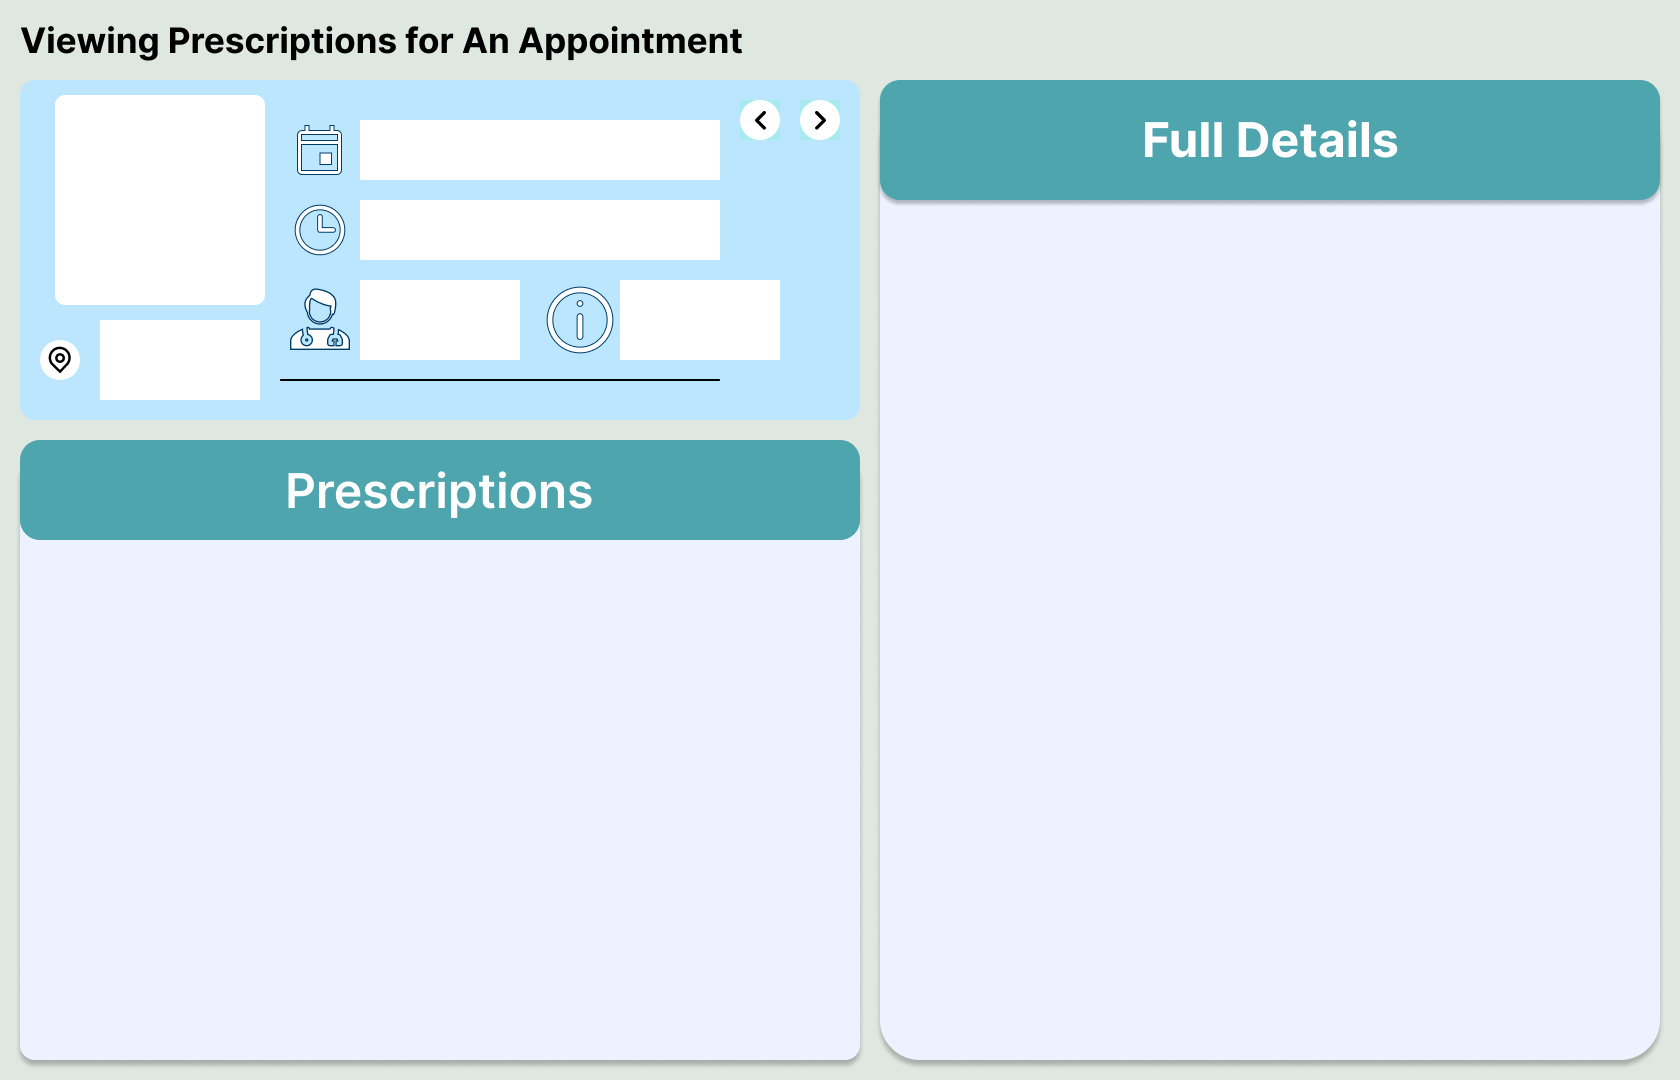
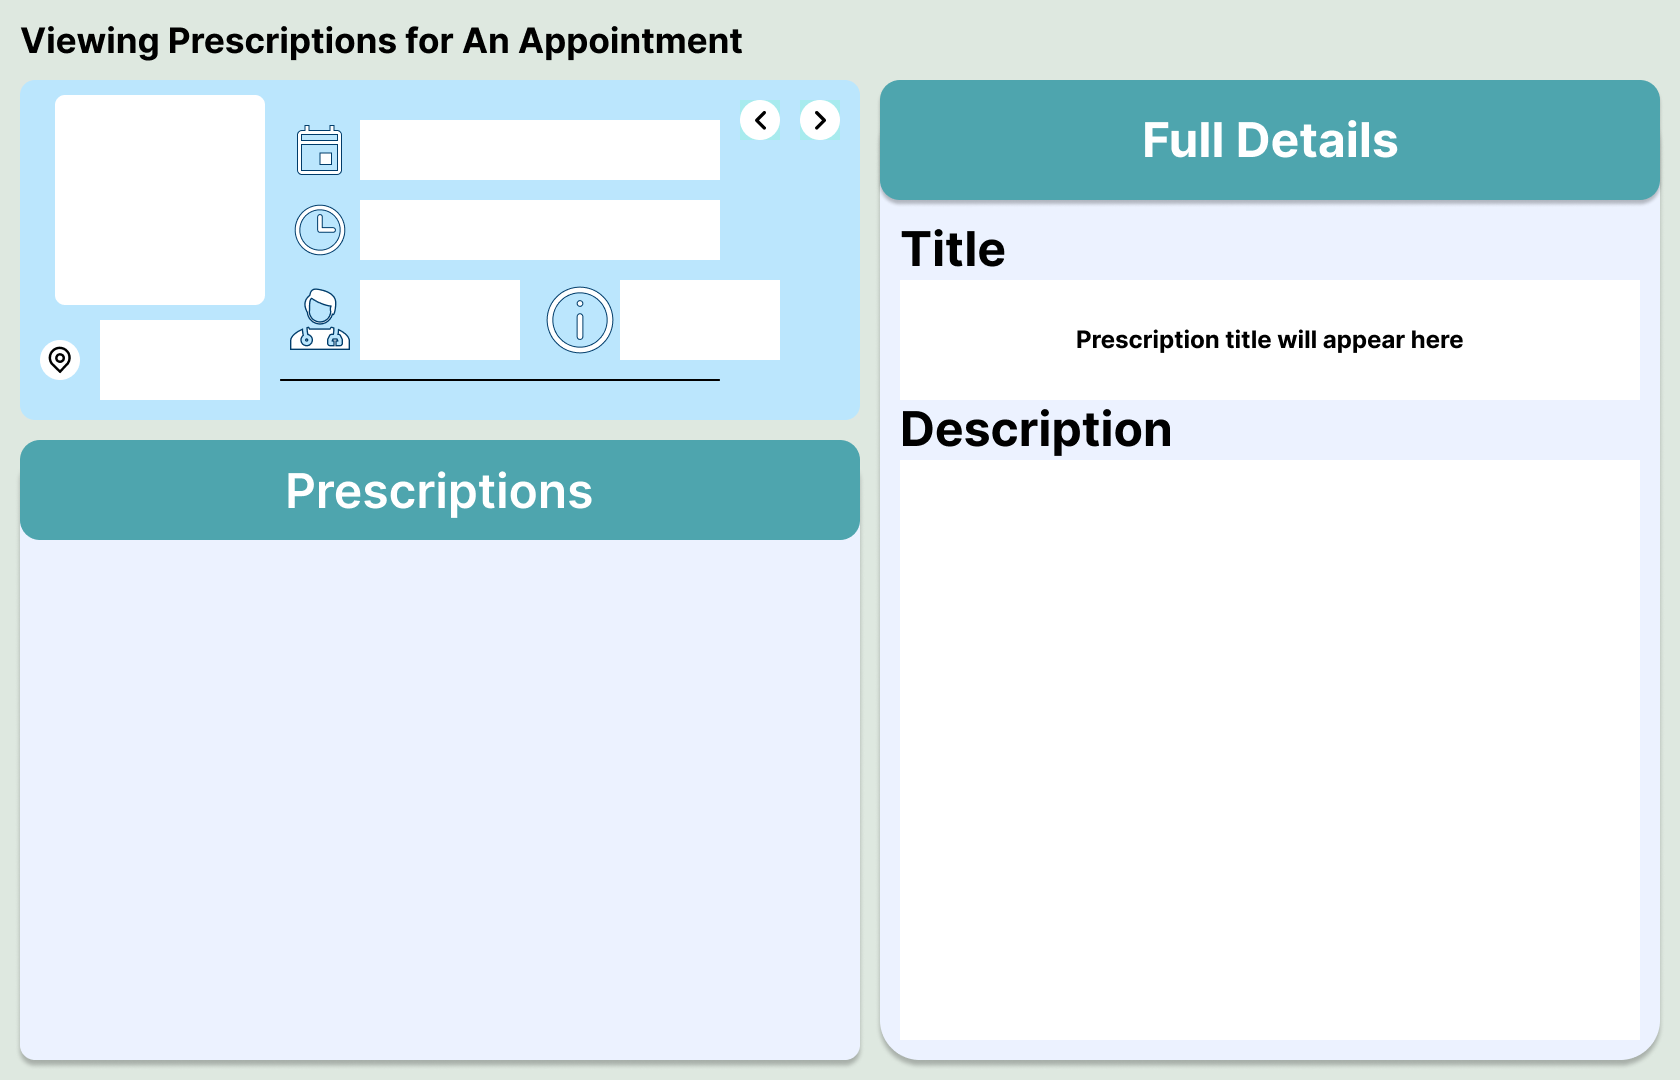
added basic rendering of prescription

Changed region(s): [[0.5262, 0.3667, 0.7119, 0.4278], [0.65, 0.3056, 0.8667, 0.3361], [0.5262, 0.2139, 0.619, 0.2444]]

diff --git a/views/patientRequests/patientCreateRequests.py b/views/patientRequests/patientCreateRequests.py
@@ -180,6 +180,14 @@ class PatientCreateRequests(Frame):
         )
         if len(appt.prescription) == 0:
             toast.show_toast()
+            try:
+                self.presc_title.place_forget()
+            except:
+                pass
+            try:
+                self.presc_description.place_forget()
+            except:
+                pass
         height = len(appt.prescription) * 220
         R = self
         self.appRequestScrolledFrame = self.controller.scrolledFrameCreator(
@@ -195,12 +203,31 @@ class PatientCreateRequests(Frame):
         R = self.appRequestScrolledFrame
         X = COORDS[0]
         Y = COORDS[1]
-        self.controller.labelCreator(
+        self.controller.buttonCreator(
             ipath="assets/Prescriptions/Patient/PrescriptionBG.png",
             x=X, y=Y, classname=f"{prescription.id}_requestbg", root=R,
             isPlaced=True,
-            # buttonFunction=lambda req=req: self.loadSingleAppointment(
-            #     req),
+            buttonFunction=lambda: self.render_prescription_details(
+                prescription)
         )
 
-        
+    def render_prescription_details(self, prescription: Prescription):
+        R = self
+        BG = WHITE
+        FONT = ("Inter Bold", 16)
+        self.presc_title = self.controller.scrolledTextCreator(
+            x=900, y=280, width=740, height=120, root=R,
+            classname="view_prescription_title",
+            bg=BG, hasBorder=True, borderColor=BLACK,
+            text=prescription.title, font=FONT, fg=BLACK,
+            isDisabled=True, isJustified=True,
+            hasVbar=False,
+        )
+        self.presc_description = self.controller.scrolledTextCreator(
+            x=900, y=460, width=740, height=580, root=R,
+            classname="view_prescription_description",
+            bg=BG, hasBorder=True, borderColor=BLACK,
+            text=prescription.desc, font=FONT, fg=BLACK,
+            isDisabled=True, isJustified=True, justification="left",
+            hasVbar=False,
+        )
